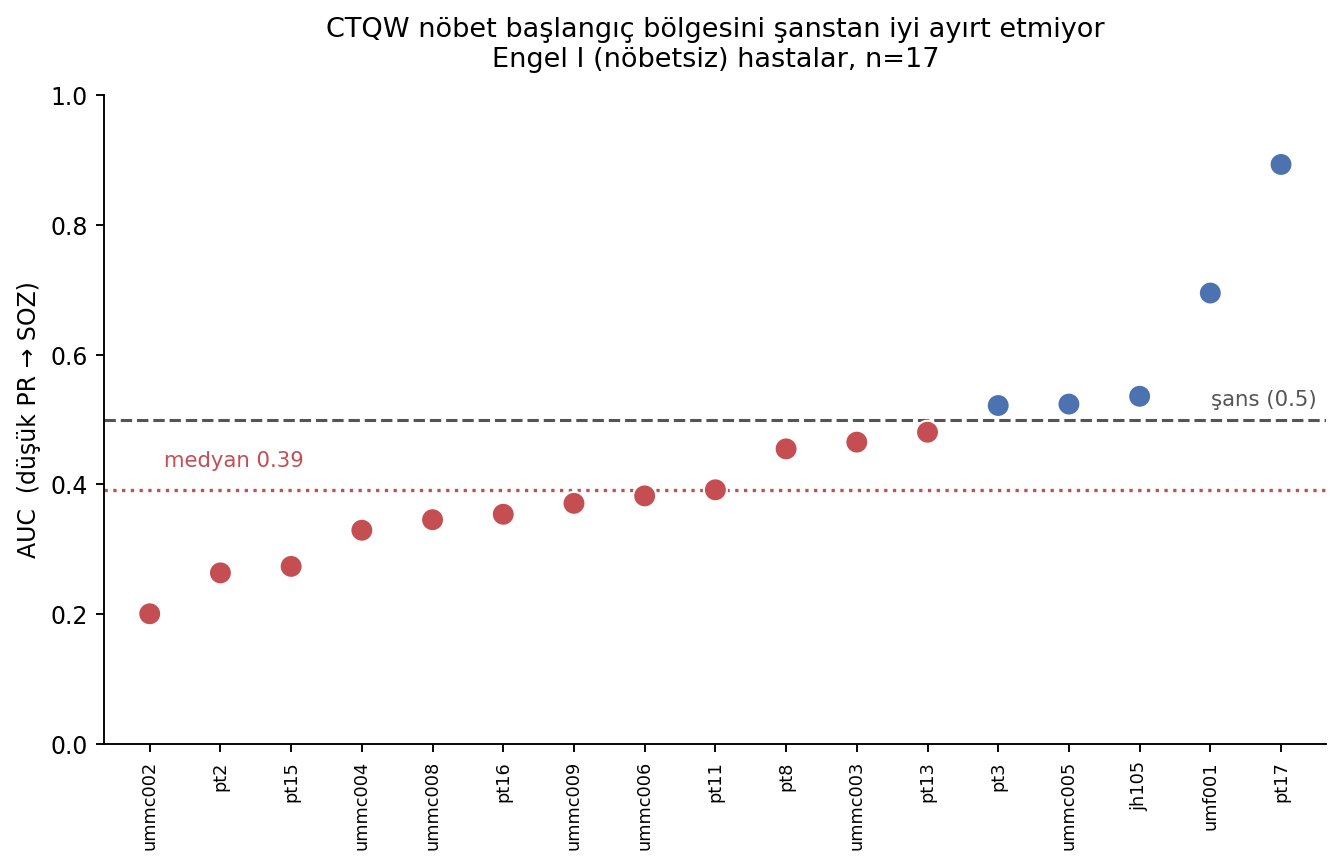
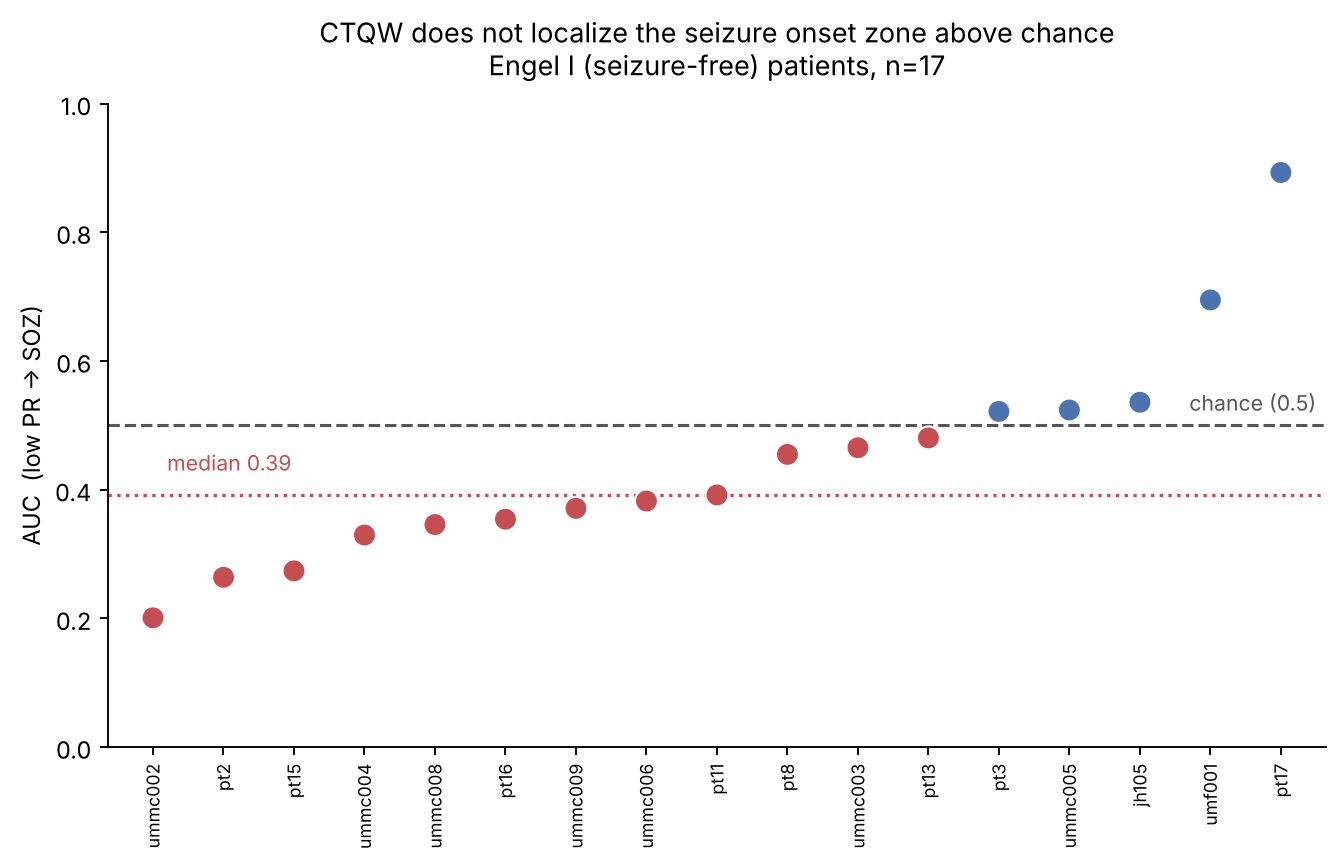
Update README: Phase 2C + Phase 3 results

diff --git a/README.md b/README.md
@@ -7,53 +7,73 @@ model as the underlying theoretical scaffold.
 The project frames a seizure as a bifurcation-induced transition in
 excitatory-inhibitory dynamics, uses stochastic simulation to identify
 early-warning signals of that transition, and applies quantum walks
-on functional-connectivity graphs to model how ictal activity spreads
-across brain regions.
+on functional-connectivity graphs to ask whether they carry information
+about where and how ictal activity is organised across brain regions.
 
 ## Scope and honest positioning
 
-Two phases are complete and are pure replications of prior work:
+Phases 1 and 2A are pure replications of prior work and contribute no
+new science; they build the tested infrastructure used later and serve
+as replication controls:
 
 - **Phase 1** reproduces the classical Wilson-Cowan analysis (Borisyuk
   & Kirillov 1992) — fixed points, subcritical Hopf bifurcation,
   bistability window.
 - **Phase 2A** reproduces the stochastic Wilson-Cowan analysis of
   Negahbani et al. 2015 — noise-induced variance and lag-1
-  autocorrelation growth as early-warning indicators of the
-  bifurcation, and noise-induced escape from the low-activity basin.
+  autocorrelation growth as early-warning indicators, and noise-induced
+  escape from the low-activity basin.
 
-Neither phase contributes new science; both build the tested
-infrastructure needed for the phases below and serve as replication
-controls. This is documented explicitly in
-`theory/02_literature_review.md`.
+The quantum-walk line of inquiry (Phases 2B, 2C, 3) is where the
+project's potential contribution lay. Its results, stated plainly, are
+**negative or null**:
 
-Two remaining phases are where the project's potential contribution
-lies:
+- **Phase 2B — quantum walks on graphs (complete).** The core walk
+  machinery (module + tests) reproduces known properties (probability
+  conservation, oscillatory return, non-convergence to uniform). One
+  negative result on synthetic graphs: no simple node-level centrality
+  reliably predicts continuous-time quantum-walk (CTQW) spread
+  (`decisions/0002`).
+- **Phase 2C — CTQW on real iEEG, SWEC-ETHZ (complete).** On the
+  short-term dataset, the CTQW per-electrode participation-ratio (PR)
+  ranking is reproducible across a patient's seizures beyond chance
+  (permutation test, p < 1e-4) and is distinct from classical
+  centralities (near-orthogonal to eigenvector centrality) — but it is
+  **not** more reproducible than them, and the dataset carries no
+  electrode-level seizure-onset-zone (SOZ) marks, so no clinical claim
+  is possible. See `decisions/0007`–`0010` and
+  `phase2c_interim_summary.md`.
+- **Phase 3 — CTQW clinical validation, ds003029 (complete).** A
+  pre-registered test on a multi-centre open iEEG dataset of whether
+  low-PR (localized) electrodes identify the clinician SOZ. The analysis
+  plan — metric, population, statistic and decision rule — was fixed
+  **before** any cohort result was seen (`decisions/0013`). **Result:
+  negative.** In the primary population (seizure-free / Engel I,
+  n = 17), CTQW-PR does not localize the SOZ above chance (median
+  AUC 0.39; one-sided Wilcoxon p = 0.96; label-permutation null below
+  chance), and it is not superior to classical centralities. An
+  exploratory, *not* pre-registered observation: low-degree / low-
+  eigenvector (peripheral) electrodes track the SOZ in the reverse
+  direction (AUC ≈ 0.78) — a hypothesis for future pre-registered work,
+  not a claim here.
 
-- **Phase 2B** — continuous-time quantum walks on synthetic and real
-  brain graphs. Core walk machinery (module + tests) is complete.
-  Synthetic-graph explorations confirmed several known properties
-  (probability conservation, oscillatory return, non-convergence to
-  uniform) and one negative result: no simple node-level centrality
-  measure reliably predicts quantum-walk spread across random graphs
-  (see `decisions/0002-quantum-walk-conventions.md`).
-- **Phase 2C** — application to real intracranial EEG (SWEC-ETHZ
-  short-term dataset). In progress: data loaded and inspected;
-  functional-connectivity extraction is the next step.
-
-Phases 3 (variational quantum Wilson-Cowan) and 4 (QAOA feature
-selection) from earlier plans have been dropped to concentrate on
-depth in Phase 2. See `decisions/` for the reasoning.
+**Bottom line.** Across synthetic graphs and two independent real iEEG
+datasets, continuous-time quantum walks have not provided a clinically
+useful, or classically superior, signal for seizure-onset localization.
+The value of this repository is a rigorously documented, pre-registered,
+honestly-reported negative line of inquiry, with a reproducible and
+tested pipeline that the next (likely classical) question can build on.
 
 ## Roadmap
 
-| Phase | Topic                                                            | Status              |
-|-------|------------------------------------------------------------------|---------------------|
-| 1     | Classical Wilson-Cowan: phase plane, bifurcation, fixed points   | complete            |
-| 2A    | Stochastic Wilson-Cowan: critical slowing down, escape           | complete            |
-| 2B    | Quantum walks on graphs: core machinery + synthetic exploration  | complete            |
-| 2C    | Quantum walks on real iEEG functional-connectivity graphs        | in progress         |
-| 3, 4  | (dropped in favour of deepening Phase 2 — see decision log)      | not planned         |
+| Phase | Topic                                                                 | Status             |
+|-------|-----------------------------------------------------------------------|--------------------|
+| 1     | Classical Wilson-Cowan: phase plane, bifurcation, fixed points        | complete           |
+| 2A    | Stochastic Wilson-Cowan: critical slowing down, escape                | complete           |
+| 2B    | Quantum walks on graphs: core machinery + synthetic exploration       | complete           |
+| 2C    | CTQW on real iEEG (SWEC-ETHZ): reproducibility + characterization      | complete           |
+| 3     | CTQW clinical validation (ds003029, multi-centre, pre-registered)     | complete — negative|
+| 4     | (earlier QAOA / variational plans dropped — see decision log)         | not planned        |
 
 ## Installation
 
@@ -80,12 +100,21 @@ python notebooks/explore_stochastic_dynamics.py
 python notebooks/detect_critical_slowing.py
 python notebooks/noise_induced_transitions.py
 
+# Phase 2C — CTQW on SWEC-ETHZ iEEG (step-by-step in exploration/)
+#   see the micro-step scripts and phase2c_interim_summary.md
+
+# Phase 3 — CTQW clinical validation on ds003029
+python exploration/ds003029/ds003029_cohort_build.py      # freeze the cohort
+python exploration/ds003029/ds003029_cohort_analysis.py   # pre-registered analysis
+python exploration/ds003029/ds003029_plot_engelI_auc.py   # primary-result figure
+
 # Tests (all phases)
 pytest tests/
 ```
 
-Phase 2B/2C analysis scripts are still being developed; the tested
-underlying functions live in `quantum_walks/`.
+The tested underlying functions live in `classical/`, `quantum_walks/`
+and `data/`; scripts under `exploration/` are the development record and
+are not part of the tested code path.
 
 ## Layout
 
@@ -99,22 +128,22 @@ phasewalk/
 │   └── visualize.py            # reusable plotting helpers
 ├── quantum_walks/              # Phase 2B: continuous-time walks on graphs
 │   └── walks.py                # classical diffusion, CTQW, participation
-│                               # ratio, return probability, time-average
-├── notebooks/                  # exploratory scripts (Jupyter-compatible)
-│   ├── _style.py               # shared visual style (deep + cividis)
-│   ├── simulate_oscillation.py
-│   ├── visualize_phase_space.py
-│   ├── analyze_bifurcation.py
-│   ├── explore_stochastic_dynamics.py
-│   ├── detect_critical_slowing.py
-│   └── noise_induced_transitions.py
-├── exploration/                # step-by-step learning scripts (micro-steps),
-│                               # kept for transparency of the development
-│                               # process; NOT part of the tested code path
+│                               # ratio, return probability, time-average,
+│                               # and a batched eigendecomposition routine
+├── data/                       # Phase 2C / 3: iEEG connectivity + loaders
+│   ├── connectivity.py         # functional-connectivity matrices (Pearson,
+│   │                           # PLV) and FCM -> graph (Layer P / Layer S)
+│   └── loader_bids.py          # ds003029 BIDS loader: channel + SOZ
+│                               # inclusion (ADR 0011) and ictal window
+│                               # (ADR 0012)
+├── notebooks/                  # Phase 1/2A exploratory scripts
+├── exploration/                # step-by-step development scripts, kept for
+│   └── ds003029/               # transparency; NOT the tested code path
+│                               #   Phase 3 cohort build + analysis + figure,
+│                               #   frozen cohort and per-subject results
 ├── decisions/                  # Architecture Decision Records (ADRs)
-│                               # documenting every methodological choice
 ├── theory/                     # literature review, derivations, notes
-├── tests/                      # pytest suite; 39 tests as of Phase 2B
+├── tests/                      # pytest suite (see note below)
 ├── requirements.txt
 └── README.md
 ```
@@ -122,75 +151,80 @@ phasewalk/
 Not committed to the repository (excluded via `.gitignore`):
 
 ```
-├── data/                       # raw iEEG data (SWEC-ETHZ .mat files)
-└── phasewalk-env/              # local Python virtual environment
+├── data/raw, ds003029/, *.eeg, *.mat   # raw iEEG recordings (download from source)
+└── phasewalk-env/                      # local Python virtual environment
 ```
 
 ## Data
 
-Phase 2C uses the **SWEC-ETHZ short-term iEEG dataset**
-(<http://ieeg-swez.ethz.ch/>), 16 patients with 100 seizures,
-sampled at 512 Hz, provided under a research-and-education licence.
-Data is not redistributed with this repository; users must download
-it directly from the source.
+Two iEEG datasets are used; neither is redistributed here — download each
+from its source under its own licence.
 
-See `decisions/0003-switch-to-short-term-dataset.md` for the rationale
-behind choosing the short-term over the long-term subset, and
-`decisions/0004`, `0005`, `0006` for the methodological policies
-governing how the data is handled.
+- **Phase 2C — SWEC-ETHZ short-term iEEG dataset**
+  (<http://ieeg-swez.ethz.ch/>): 16 patients, 100 seizures, 512 Hz,
+  research-and-education licence. Used for methodology and
+  reproducibility; it carries no electrode-level SOZ annotations.
+- **Phase 3 — Epilepsy-iEEG-Multicenter dataset (ds003029)** on
+  OpenNeuro (Li et al. 2021, "neural fragility"): multi-centre ECoG/SEEG
+  in BrainVision format, with clinician SOZ annotations and surgical
+  outcome (Engel). Public; the raw signal is not stored in this repo.
+  Inclusion, windowing and the pre-registered analysis plan are in
+  `decisions/0011`–`0013`.
 
 ## Decision log
 
-Every non-trivial methodological choice is recorded in `decisions/`
-as a standalone ADR (Architecture Decision Record). Current entries:
+Every non-trivial methodological choice is a standalone ADR in
+`decisions/`.
 
-| ID   | Title                                        | Status              |
-|------|----------------------------------------------|---------------------|
-| 0001 | Dataset choice for Phase 2                   | superseded by 0003  |
-| 0002 | Quantum-walk conventions                     | accepted            |
-| 0003 | Switch to short-term dataset                 | accepted            |
-| 0004 | Seizure duration policy                      | accepted            |
-| 0005 | Patient-level analysis                       | accepted            |
-| 0006 | ID1 as development patient                   | accepted            |
+| ID   | Title                                                      | Status             |
+|------|------------------------------------------------------------|--------------------|
+| 0001 | Dataset choice for Phase 2                                 | superseded by 0003 |
+| 0002 | Quantum-walk conventions                                   | accepted           |
+| 0003 | Switch to short-term dataset                               | accepted           |
+| 0004 | Seizure duration policy                                    | accepted           |
+| 0005 | Patient-level analysis                                     | accepted           |
+| 0006 | ID1 as development patient (parameter independence)        | accepted           |
+| 0007 | Connectivity measure: Pearson primary, PLV robustness      | accepted           |
+| 0008 | Graph construction: Layer P (positive) vs Layer S (signed) | accepted           |
+| 0009 | Reframe: CTQW participation-ratio ranking as primary object| accepted           |
+| 0010 | SOZ unavailable on SWEC-ETHZ: staged clinical strategy     | accepted           |
+| 0011 | ds003029 channel and SOZ inclusion policy                  | accepted           |
+| 0012 | ds003029 ictal window and seizure-onset definition         | accepted           |
+| 0013 | ds003029 analysis plan (pre-registration)                  | accepted           |
 
 ## Key references
 
 - Wilson, H. R., & Cowan, J. D. (1972). Excitatory and inhibitory
   interactions in localized populations of model neurons.
   *Biophysical Journal*, 12(1), 1-24.
-- Borisyuk, R. M., & Kirillov, A. B. (1992). Bifurcation analysis of
-  a neural network model. *Biological Cybernetics*, 66(4), 319-325.
-- Jirsa, V. K., Stacey, W. C., Quilichini, P. P., Ivanov, A. I., &
-  Bernard, C. (2014). On the nature of seizure dynamics.
+- Borisyuk, R. M., & Kirillov, A. B. (1992). Bifurcation analysis of a
+  neural network model. *Biological Cybernetics*, 66(4), 319-325.
+- Jirsa, V. K., et al. (2014). On the nature of seizure dynamics.
   *Brain*, 137(8), 2210-2230.
-- Negahbani, E., Steyn-Ross, D. A., Steyn-Ross, M. L., Wilson, M. T.,
-  & Sleigh, J. W. (2015). Noise-induced precursors of state
-  transitions in the stochastic Wilson-Cowan model.
-  *The Journal of Mathematical Neuroscience*, 5:9.
-- Maturana, M. I., et al. (2020). Critical slowing down as a biomarker
-  for seizure susceptibility. *Nature Communications*, 11:2172.
-- Mulken, O., & Blumen, A. (2011). Continuous-time quantum walks:
-  Models for coherent transport on complex networks.
-  *Physics Reports*, 502(2-3), 37-87.
-- Burrello, A., Cavigelli, L., Schindler, K., Benini, L., & Rahimi, A.
-  (2019). Laelaps: An energy-efficient seizure detection algorithm
-  from long-term human iEEG recordings without false alarms. In
-  *DATE 2019* (best-paper nomination).
-- Burrello, A., Schindler, K., Benini, L., & Rahimi, A. (2018).
-  One-shot learning for iEEG seizure detection using end-to-end
-  binary operations. In *BioCAS 2018* (best-paper award).
+- Negahbani, E., et al. (2015). Noise-induced precursors of state
+  transitions in the stochastic Wilson-Cowan model. *The Journal of
+  Mathematical Neuroscience*, 5:9.
+- Mulken, O., & Blumen, A. (2011). Continuous-time quantum walks: Models
+  for coherent transport on complex networks. *Physics Reports*,
+  502(2-3), 37-87.
+- Li, A., et al. (2021). Neural fragility as an EEG marker of the seizure
+  onset zone. *Nature Neuroscience*, 24, 1465-1474. (ds003029)
+- Burrello, A., et al. (2019). Laelaps: an energy-efficient seizure
+  detection algorithm from long-term human iEEG recordings without false
+  alarms. *DATE 2019*.
 
 Full literature positioning is in `theory/02_literature_review.md`.
 
 ## Development notes
 
-- Style: seaborn `deep` categorical palette + `cividis` sequential
-  colormap; DPI 300 for saved figures. See `notebooks/_style.py`.
-- Testing: `pytest tests/` — all changes must keep the test suite green.
-- Reproducibility: deterministic components use fixed seeds
-  (typically 42); stochastic components accept a `seed` argument and
-  ensembles use independent child seeds derived from a master seed.
+- Testing: `pytest tests/` — all changes keep the suite green (96 tests as of Phase 3).
+- Reproducibility: deterministic components use fixed seeds; stochastic
+  components accept a `seed`; the Phase 3 cohort is frozen
+  (`exploration/ds003029/cohort_frozen.json`) before any result is
+  computed, so the analysed cohort cannot drift after the fact.
+- Style: seaborn `deep` palette + `cividis` colormap; see
+  `notebooks/_style.py`.
 
 ## License
 
-MIT (to be added once the repository is public-ready).
+MIT.
